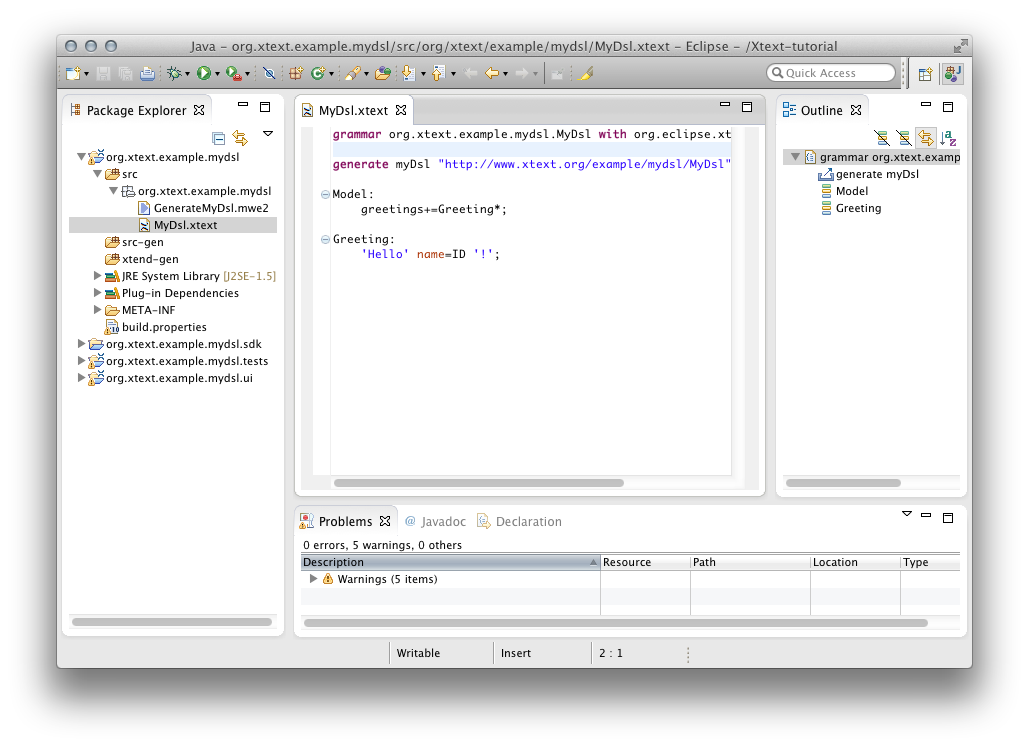
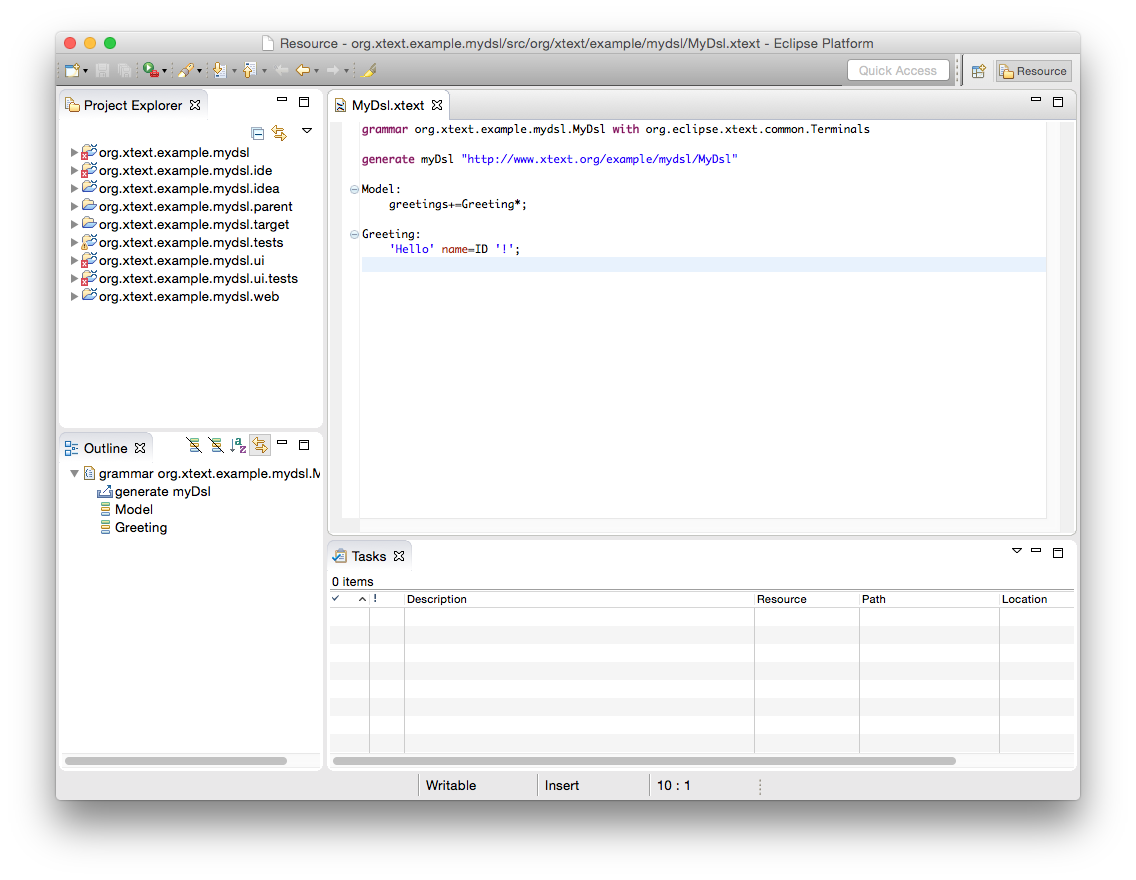
[5minTutorial] updated and refined 5 min tutorial for Eclipse, IDEA, and Web; added more screenshots.

Changed region(s): [[0.0311, 0.0308, 0.964, 0.9237], [0.7153, 0.585, 0.7464, 0.6158], [0.4043, 0.3387, 0.4354, 0.3695]]

diff --git a/xtext-website/documentation/101_five_minutes.md b/xtext-website/documentation/101_five_minutes.md
@@ -6,51 +6,125 @@ part: Getting Started
 
 # {{page.title}} {#first-five-minutes}
 
-In this chapter you will learn how to create a new Xtext project, generate a fully working language infrastructure and how to start a new Eclipse instance in order to test the editor. But before we get started, make sure you have Eclipse Xtext properly installed.
+In this chapter you will learn how to create a new Xtext project, generate a fully working language infrastructure, and how to start editors tailored to your language for testing. We show you how this works for editors based on the Eclipse IDE, IntelliJ IDEA, and web browsers.
+
+But before we get started, make sure you have Eclipse Xtext properly [installed](../download.html). If you did not work with Eclipse yet you might want to choose the [Full Eclipse](../download.html) distribution, which you can unpack into the folder of your choice and run. Otherwise you may install Xtext via one of our [Update Sites](../download.html#updatesites) into your existing Eclipse IDE, and continue [here](#new-project).
+
+After launching the Eclipse IDE you will be asked for a workspace directory, into which all the files and settings will be stored. You can start with the default proposal.
+
+![](images/FiveMinTutorial_Workspace.png)
+
+Once you confirmed your workspace the IDE will start with a welcome page. 
+
+![](images/FiveMinTutorial_Welcome.png)
+
+Close the welcome page via the cross handle in the *Welcome* tab in the top left corner of the window, and there you go: This is your IDE.
+
+![](images/FiveMinTutorial_PlainIDE.png)
+
 
 ## Creating A New Xtext Project {#new-project}
 
-The first step is to create a new Xtext project by choosing *File &rarr; New &rarr; Project...*. The dialog offers a couple of different project types. Select *New Xtext Project* from the category *Xtext* and finish the wizard with the default settings. You will find 4 new projects in your workspace which are mostly empty. The Xtext grammar editor will be opened and show the definition of a very simple *Hello World* language.
+Now create a new Xtext project by choosing *File &rarr; New &rarr; Project...* from the main menu. The dialog offers a couple of different project types. Select *New Xtext Project* from the category *Xtext*.
+![](images/FiveMinTutorial_WizardProjectType.png)
 
-```xtext
-grammar org.xtext.example.mydsl.MyDsl with 
-                                      org.eclipse.xtext.common.Terminals
+Keep the project and language names as proposed for the moment and continue via *Next*.
+![](images/FiveMinTutorial_WizardPageNames.png)
 
-generate myDsl "http://www.xtext.org/example/mydsl/MyDsl"
+Feel free to select all of the offered *Facets*, choose the *Gradle* build system, and finish the wizard.
+![](images/FiveMinTutorial_WizardPageTargets.png)
 
-Model:
-  greetings+=Greeting*;
-  
-Greeting:
-  'Hello' name=ID '!';
-```
+You will find 9 new projects in your workspace which are mostly empty. The Xtext grammar editor will be opened and show the definition of a very simple *Hello World* language.
 
-The only thing this language does, is to allow to write down a list of greetings. The following would be proper input: 
+![](images/FiveMinTutorial_FreshProject.png)
+
+The only thing this language allows is to write down a list of greetings. The following would be proper input: 
 
 ```mydsl
 Hello Xtext!
 Hello World!
 ```
 
-![](images/FiveMinTutorial_FreshProject.png)
-
 ## Generating The Language Infrastructure {#run-workflow}
 
-In order to test drive this language, you will have to generate the respective language infrastructure. Therefore, choose *Run As &rarr; Generate Xtext Artifacts* from the context menu of the grammar editor. A new Java process will be spawned and afterwards you will find a couple of new files in the projects that were created in the first step. What you see now is a runnable language infrastructure with a powerful Eclipse editor for a brain-dead language :-).
+In order to test drive this language, you will have to generate the respective language infrastructure. Therefore, open the grammar editor's context menu and hit *Run As &rarr; Generate Xtext Artifacts*. A new Java process will be spawned, the *Console* view will appear, and afterwards you will find a couple of new files in the projects that were created by the project wizard.
 
-## Try The Editor {#testing-the-editor}
+![](images/FiveMinTutorial_GenerateXtext.png)
 
-Let's give the editor a try. If you select *Run As &rarr; Eclipse Application* from the project's context menu, you can create a new Eclipse Application. A new Eclipse instance will be launched and allows to test drive the editor.
+Note: The first time you will be asked to confirm the following:
 
-![](images/FiveMinTutorial_LaunchConfig.png)
+```
+*ATTENTION*
+It is recommended to use the ANTLR 3 parser generator
+	(BSD licence - http://www.antlr.org/license.html).
+Do you agree to download it (size 1MB) from
+	'http://download.itemis.com/antlr-generator-3.2.0-patch.jar'?
+(type 'y' or 'n' and hit enter)
+```
 
-Before you can create a file for the sample language, you will have to create a sample project. Select *File &rarr; New &rarr; Project...* and choose a project type of your choice, e.g. *Java Project*, name it *Sample* and create a new file in the *src* folder of the project: From the context menu of the folder choose *New &rarr; File*, call it *Sample.mydsl* and hit *Finish*. The newly created editor will open for your language and ask you in a dialog, whether you want to add the Xtext nature to your project, which should be confirmed. You can now give the editor a try, e.g. use content assist (*Ctrl+Space*) to insert the keyword `Hello` and see how the input is validated immediately.
+Click into the *Console* view, type *y* and confirm. A file named *antlr-generator-3.2.0-patch.jar* will be copied into your project folder.
 
-![](images/FiveMinTutorial_Editor.png)
+You now obtain a runnable language infrastructure with a powerful Eclipse editor for a brain-dead language :-).
+
+## Try The Eclipse Editor {#testing-eclipse-editor}
+
+Let's give the editor a try. If you select *Run As &rarr; Eclipse Application* from the project's context menu. A new Eclipse IDE instance will be launched and allows to test drive the editor.
+
+![](images/FiveMinTutorial_RunEditor.png)
+
+Before you can create a file for the sample language in the test IDE you need to close the welcome page, of course, and create a sample project. Select *File &rarr; New &rarr; Project...* and choose a project type of your choice, e.g. *Java Project*, name it *Sample* and create a new file in the *src* folder of the project: From the context menu of the folder choose *New &rarr; File*, call it *Sample.mydsl* and hit *Finish*. The newly created editor for your language will open and ask you in a dialog, whether you want to add the Xtext nature to your project, which should be confirmed. You can now give the editor a try, e.g. use content assist (*Ctrl+Space*) to insert the keyword `Hello` and see how the input is validated immediately.
+
+![](images/FiveMinTutorial_EclipseEditor.png)
+
+## Try The IntelliJ IDEA Editor {#testing-idea-editor}
+
+The IDEA IDE can be launched by means of the Gradle build system. If you're using the prepared Full Eclipse IDE, Gradle integration is already available. Otherwise, make sure to have [Buildship](http://projects.eclipse.org/projects/tools.buildship) installed, which is available via the [Eclipse Marketplace](http://marketplace.eclipse.org/content/buildship-gradle-integration), for example.
+
+Open the *Gradle Tasks* view via *Window &rarr; Show view &rarr; Other... &rarr; Gradle &rarr; Gradle Tasks*.
+![](images/FiveMinTutorial_RunIdea.png)
+
+Expand the project `org.xtext.example.mydsl.parent` and double click on the task named `runIdea`. A bunch of required components is downloaded first, and after successful compilation an IDEA IDE is launched.
+![](images/FiveMinTutorial_IdeaWelcome.png)
+
+Create a new project, e.g., a Java project. You may skip the determination of the SDK to be used and proceed to the prompt of the project name.
+![](images/FiveMinTutorial_IdeaNewProject.png)
+
+Let's call the project *Sample*.
+![](images/FiveMinTutorial_IdeaProjectName.png)
+
+Once your project is set up create a plain file named *Sample.mydsl* in the *src* folder, and your DSL editor is opened. Enter the example text below, check out the content assist (*CTRL/CMD + Space*) as well as the live validation offered by the editor.
+
+```mydsl
+Hello Xtext!
+Hello World!
+```
+
+![](images/FiveMinTutorial_IdeaEditor.png)
+
+## Try The Web Editor {#testing-web-editor}
+
+For testing the web editor a local web server needs to be started. That can be launched by means of the Gradle build system. If you're using the prepared Full Eclipse IDE, Gradle integration is already available. Otherwise, make sure to have [Buildship](http://projects.eclipse.org/projects/tools.buildship) installed, which is available via the [Eclipse Marketplace](http://marketplace.eclipse.org/content/buildship-gradle-integration), for example.
+
+Open the *Gradle Tasks* view via *Window &rarr; Show view &rarr; Other... &rarr; Gradle &rarr; Gradle Tasks*.
+![](images/FiveMinTutorial_JettyRun.png)
+
+Expand the project `org.xtext.example.mydsl.parent` and double click on the task named `jettyRun`. A bunch of required components is downloaded first, and after successful compilation a Jetty web server is launched. It is accessible via the URL printed in the *Console* view.
+
+Open that URL in your favorite browsers, click into the text field, and enter sample text
+
+```mydsl
+Hello Xtext!
+Hello World!
+```
+Check out the content assist by hitting *Ctrl/Cmd + Space*.
+
+![](images/FiveMinTutorial_BrowserEditor.png)
+
+To stop the web server click into the *Console* view of your development IDE and hit *enter/return*.
 
 ## Conclusion {#five-minutes-conclusion}
 
-In your first five minutes with Xtext, you have learned how to create a new set of projects. You have run Xtext's code generation in order to get a fully working language infrastructure, and finally learned how to test the generated editor.
+In your first five minutes with Xtext, you have learned how to create a valid set of projects for building editors for your DSLs. You have run Xtext's code generation in order to get a fully working language infrastructure, and finally learned how to test the generated editors.
 
 Next up you should go through the more comprehensive [Domain Model Example](102_domainmodelwalkthrough.html). It explains the different concepts of the Xtext grammar language and illustrates how to customize various aspects of the language. 
 
